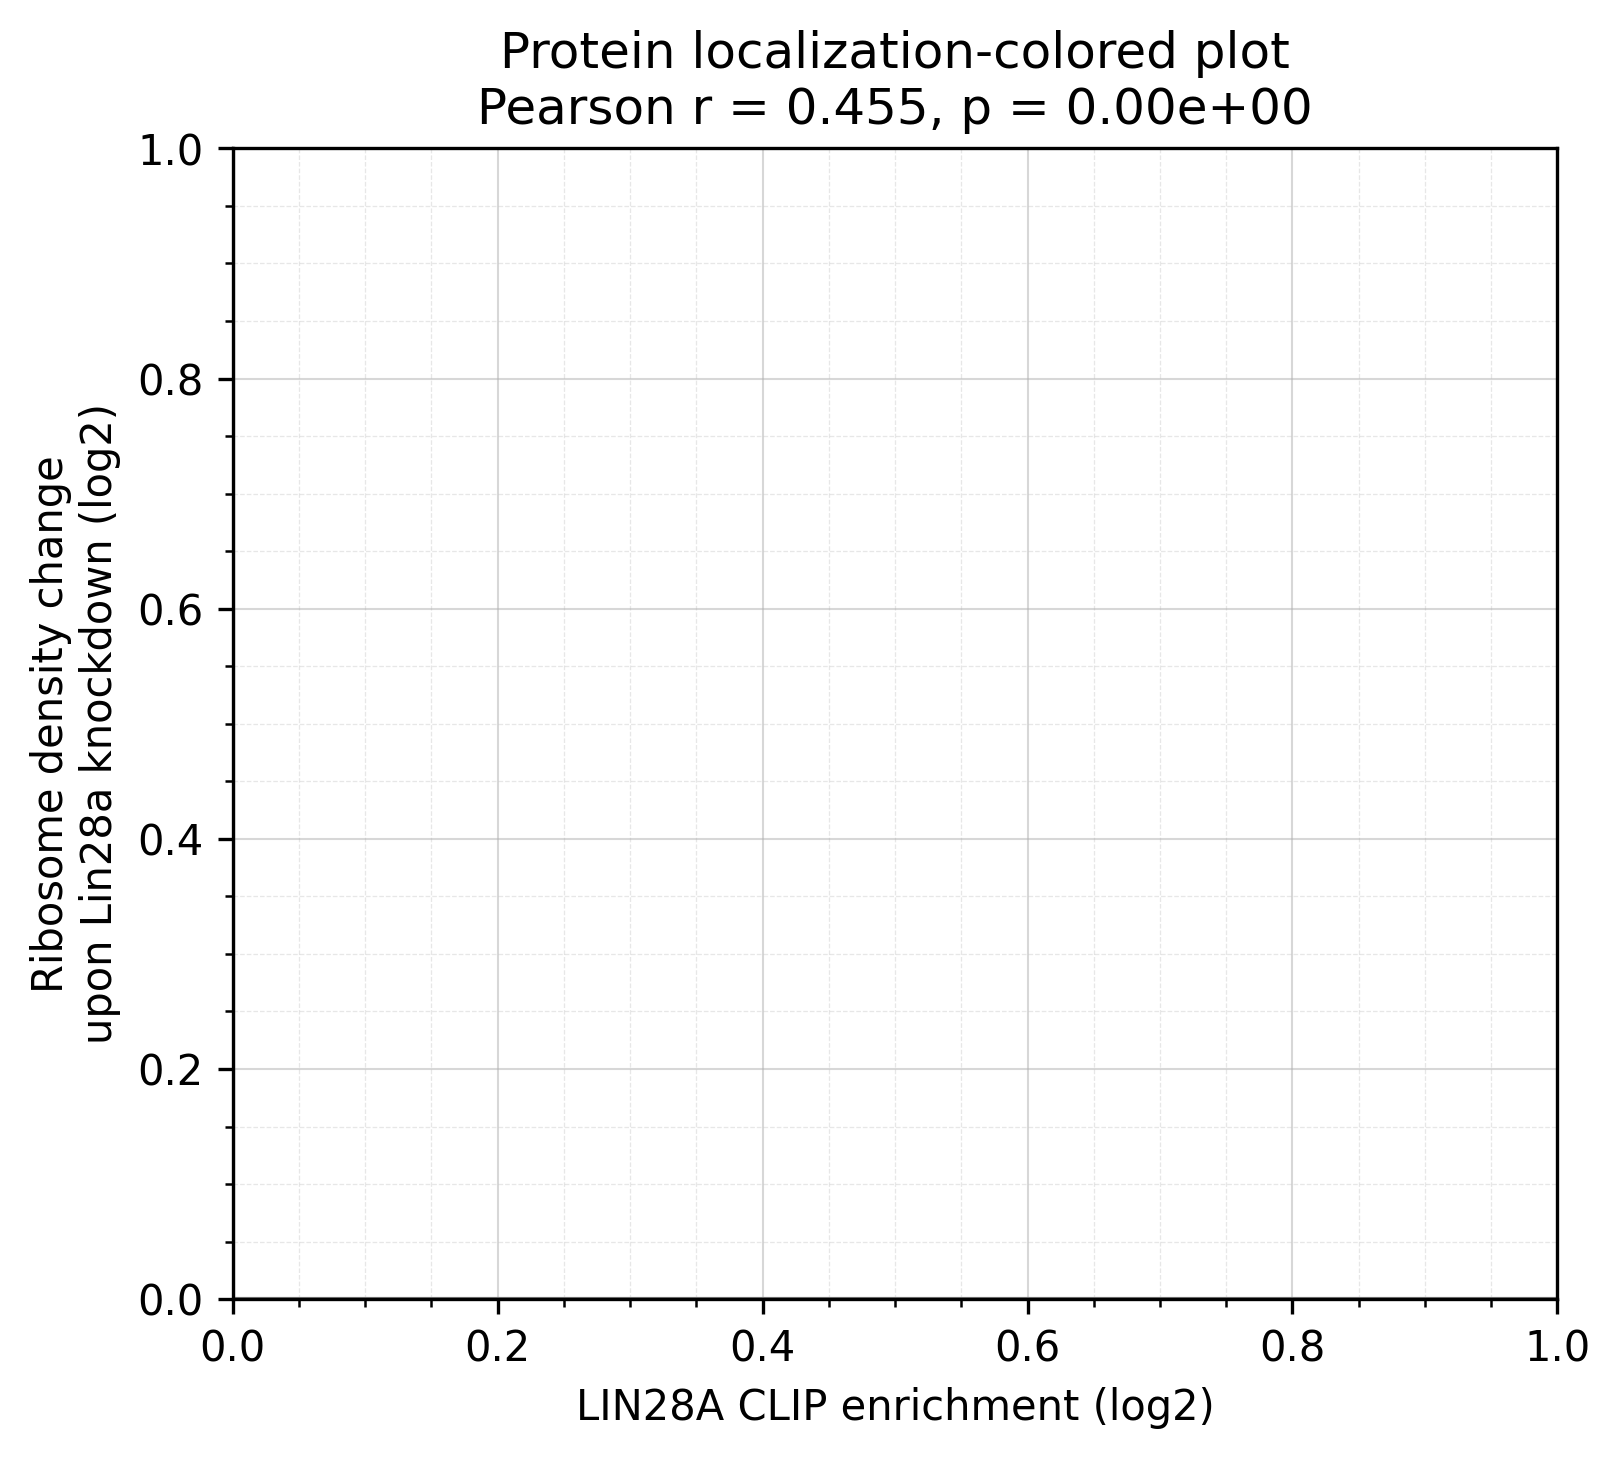
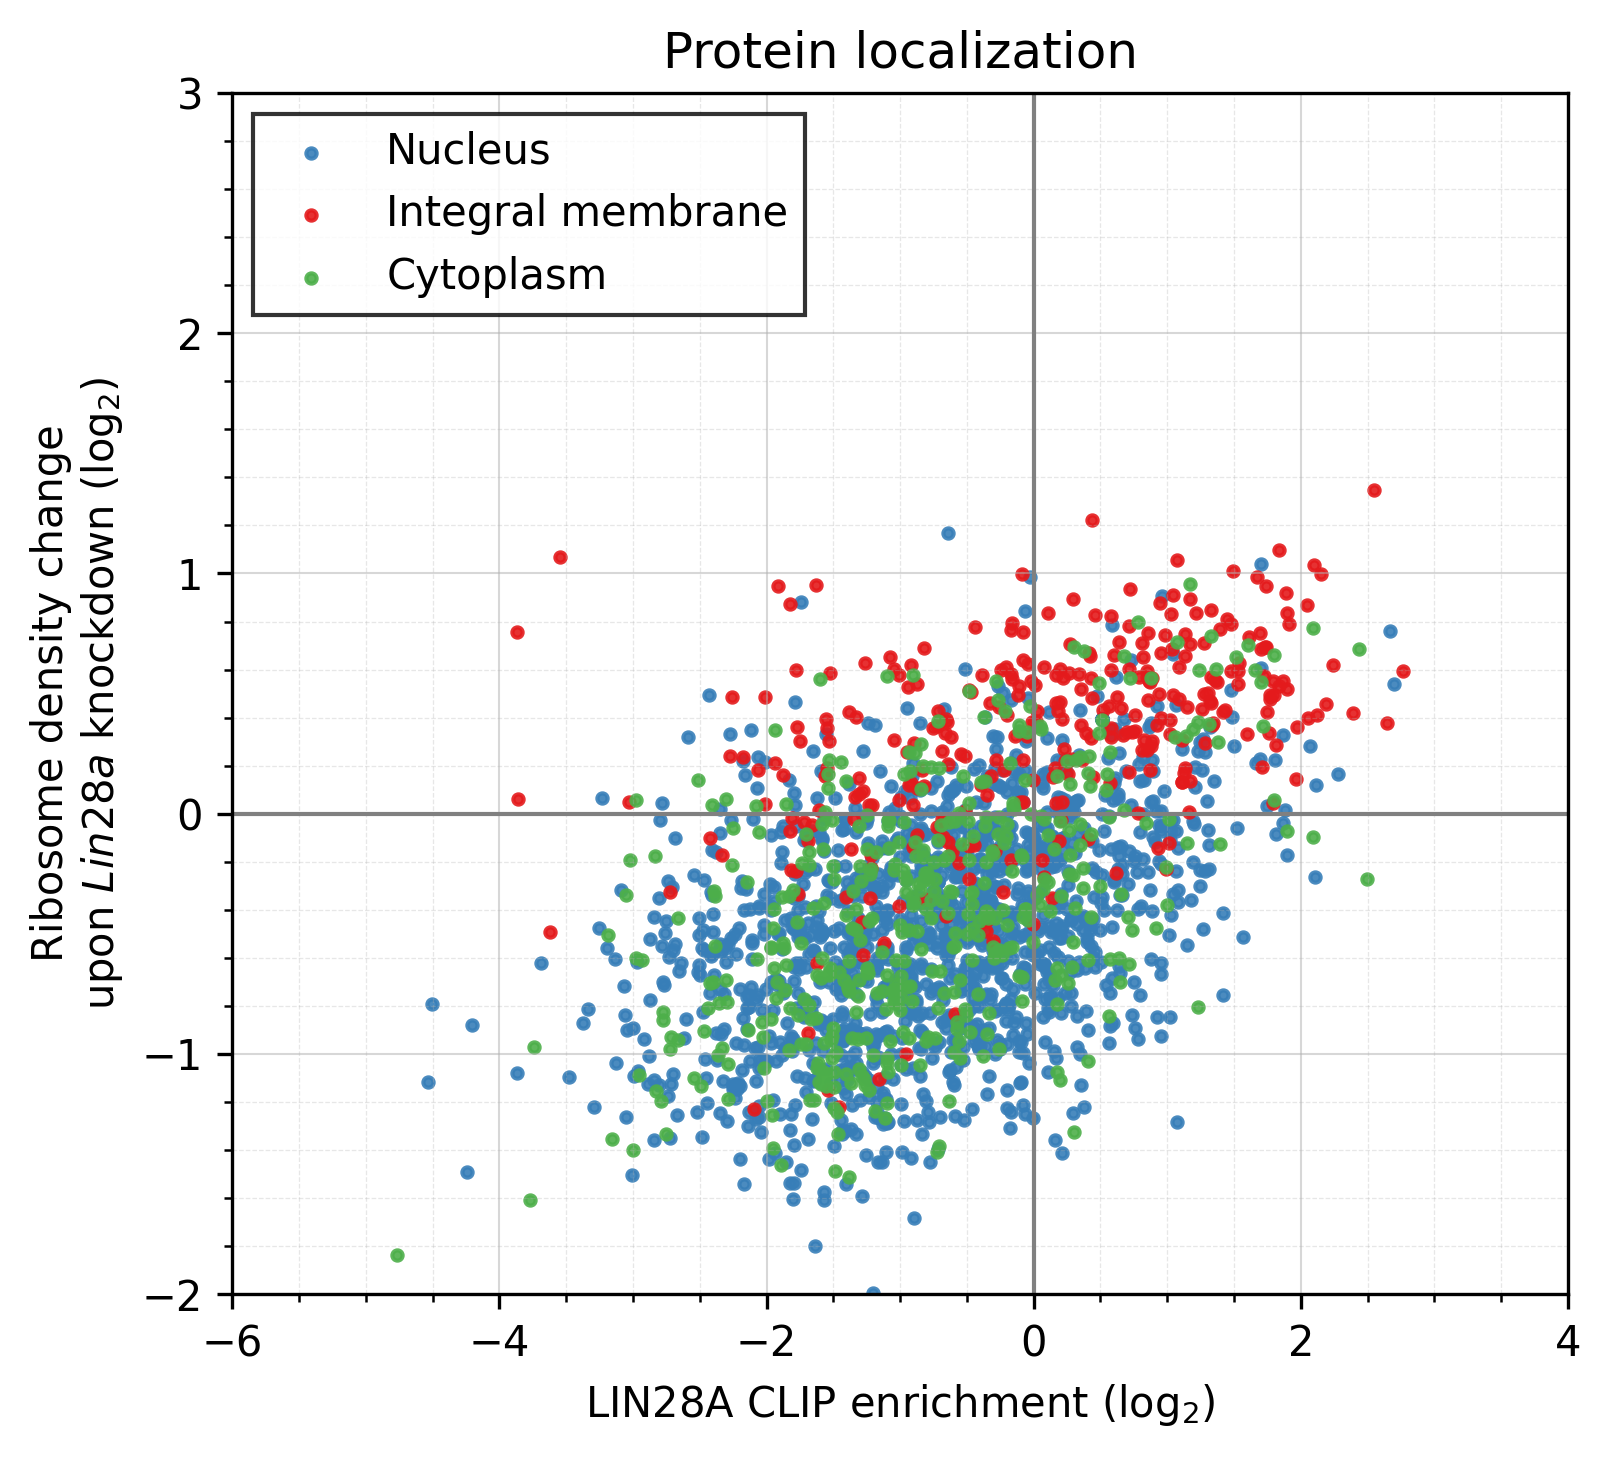
scatter plot colorized with protein localization

diff --git a/01.result/scatter_plot_revised.py b/01.result/scatter_plot_revised.py
@@ -1,0 +1,224 @@
+# cd /home/sehwahong/GuidedMission/01.result
+# conda activate lab
+# python scatter_plot_revised.py
+
+#pip install scipy
+import pandas as pd
+import numpy as np
+from matplotlib import pyplot as plt
+from scipy.stats import pearsonr
+
+# read read-counts.txt
+cnts = pd.read_csv('read-counts.txt', sep='\t', comment='#', index_col=0)
+print(cnts.columns)
+
+# column 이름 정리: featureCounts가 경로를 붙였을 가능성 대비
+cnts.columns = [col.split('/')[-1] for col in cnts.columns]
+cnts.head()
+
+# count column만 선택
+count_cols = [
+    'CLIP-35L33G.bam',
+    'RNA-control.bam',
+    'RNA-siLin28a.bam',
+    'RNA-siLuc.bam',
+    'RPF-siLin28a.bam',
+    'RPF-siLuc.bam'
+]
+
+cnts[count_cols].dtypes
+
+# 숫자형으로 변환
+for c in count_cols:
+    cnts[c] = pd.to_numeric(cnts[c], errors='coerce')
+
+# library size normalization: CPM
+cpm = cnts[count_cols].div(cnts[count_cols].sum(axis=0), axis=1) * 1_000_000
+print(cpm.head())
+
+
+
+
+# pseudocount로 0 division 방지
+pc = 1
+
+plotdf = pd.DataFrame(index=cnts.index)
+plotdf['clip_enrichment_log2'] = np.log2(
+    (cpm['CLIP-35L33G.bam'] + pc) / (cpm['RNA-control.bam'] + pc)
+)
+
+plotdf['rden_change_log2'] = np.log2(
+    ((cpm['RPF-siLin28a.bam'] + pc) / (cpm['RNA-siLin28a.bam'] + pc)) /
+    ((cpm['RPF-siLuc.bam'] + pc) / (cpm['RNA-siLuc.bam'] + pc))
+)
+
+
+
+# filtering 위해 RPKM 계산
+
+# featureCounts length column 사용
+# RPKM = reads / (gene_length_kb * total_mapped_reads_million)
+rna_siluc_total_million = cnts['RNA-siLuc.bam'].sum() / 1_000_000
+gene_length_kb = cnts['Length'] / 1000
+
+cnts['RNA_siLuc_RPKM'] = cnts['RNA-siLuc.bam'] / (gene_length_kb * rna_siluc_total_million)
+
+plotdf['RNA_siLuc_RPKM'] = cnts['RNA_siLuc_RPKM']
+
+
+
+# 너무 low count인 gene 제거
+plotdf['RNA_control_raw'] = cnts['RNA-control.bam']
+plotdf['RPF_siLuc_raw'] = cnts['RPF-siLuc.bam']
+plotdf = plotdf[
+    (plotdf['RNA_control_raw'] >= 30) &
+    (plotdf['RPF_siLuc_raw'] >= 80)
+].replace([np.inf, -np.inf], np.nan).dropna()
+
+r, p = pearsonr(plotdf['clip_enrichment_log2'], plotdf['rden_change_log2'])
+
+fig, ax = plt.subplots(figsize=(5, 5))
+ax.scatter(
+    plotdf['clip_enrichment_log2'],
+    plotdf['rden_change_log2'],
+    s=3,
+    alpha=0.3,
+    color='black' 
+)
+
+# grid
+ax.axhline(0, linewidth=1, color='gray')
+ax.axvline(0, linewidth=1, color='gray')
+
+# minor ticks + grid
+ax.minorticks_on()
+ax.grid(which='major', linestyle='-', linewidth=0.5, alpha=0.5)
+ax.grid(which='minor', linestyle='--', linewidth=0.3, alpha=0.3)
+
+# 축 범위: 논문 Figure 4D 느낌
+ax.set_xlim(-6, 4)
+ax.set_ylim(-2, 2)
+
+# label
+ax.set_xlabel('LIN28A CLIP enrichment (log$_2$)')
+ax.set_ylabel('Ribosome density change\nupon $Lin28a$ knockdown (log$_2$)')
+ax.set_title(f'CLIP and ribosome footprinting upon\n$Lin28a$ knockdown')
+
+ax.text(1, -1.5, f'$r$ = {r:.3f}')
+
+plt.subplots_adjust(left=0.18)
+plt.tight_layout()
+plt.savefig('scatter_plot_revised.png', dpi=300, bbox_inches='tight')
+# plt.show()
+
+
+
+# ============================================================
+# Protein localization 정보를 이용해서 색깔 있는 plot 다시 그리기
+# Figure 5B / S6A-like plot
+# ============================================================
+
+# mouselocalization 파일 읽기
+mouselocal = pd.read_csv('/home/sehwahong/GuidedMission/00.data/mouselocalization-20210507.txt', sep='\t')
+
+print(mouselocal.head())
+print(mouselocal.columns)
+
+# plotdf는 현재 index가 Geneid인 상태이므로 column으로 꺼내기
+plotdf_local = plotdf.reset_index()
+
+# reset_index 후 첫 column 이름 확인
+print(plotdf_local.columns)
+
+plotdf_local['Geneid_clean'] = plotdf_local['Geneid'].astype(str).str.replace(r'\.\d+$', '', regex=True)
+mouselocal['gene_id_clean'] = mouselocal['gene_id'].astype(str).str.replace(r'\.\d+$', '', regex=True)
+
+# mouselocal type 확인
+print(mouselocal['type'].value_counts())
+
+# merge
+plotdf_local = plotdf_local.merge(
+    mouselocal[['gene_id_clean', 'type']],
+    left_on='Geneid_clean',
+    right_on='gene_id_clean',
+    how='left'
+)
+
+# merge 결과 확인
+print(plotdf_local['type'].value_counts(dropna=False))
+
+
+# filter out
+plotdf_local = plotdf_local[
+    (plotdf_local['RNA_siLuc_RPKM'] > 15) & 
+    (plotdf_local['type'].isin(['nucleus', 'integral membrane', 'cytoplasm']))
+].replace([np.inf, -np.inf], np.nan).dropna()
+
+print(plotdf_local['type'].value_counts())
+
+
+# 색 지정
+color_dict = {
+    'nucleus': '#377EB8',             # Set1 blue
+    'integral membrane': '#E41A1C',   # Set1 red
+    'cytoplasm': '#4DAF4A'            # Set1 green
+}
+
+label_dict = {
+    'nucleus': 'Nucleus',
+    'integral membrane': 'Integral membrane',
+    'cytoplasm': 'Cytoplasm'
+}
+
+
+# 새 figure 생성
+fig, ax = plt.subplots(figsize=(5.5, 5))
+
+# plotting
+for t in ['nucleus', 'integral membrane', 'cytoplasm']:
+    sub = plotdf_local[plotdf_local['type'] == t]
+
+    ax.scatter(
+        sub['clip_enrichment_log2'],
+        sub['rden_change_log2'],
+        s=6,
+        alpha=0.9,
+        color=color_dict[t],
+        label=f'{label_dict[t]}'
+    )
+
+# 기준선
+ax.axhline(0, linewidth=1, color='gray')
+ax.axvline(0, linewidth=1, color='gray')
+
+# grid
+ax.minorticks_on()
+ax.grid(which='major', linestyle='-', linewidth=0.5, alpha=0.5)
+ax.grid(which='minor', linestyle='--', linewidth=0.3, alpha=0.3)
+
+# 축 범위: 논문 Figure 5B 느낌
+ax.set_xlim(-6, 4)
+ax.set_ylim(-2, 3)
+
+# label
+ax.set_xlabel('LIN28A CLIP enrichment (log$_2$)')
+ax.set_ylabel('Ribosome density change\nupon $Lin28a$ knockdown (log$_2$)')
+ax.set_title('Protein localization')
+
+# legend
+ax.legend(
+    frameon=True,
+    fancybox=False,
+    edgecolor='black',
+    fontsize=10,
+    loc='upper left'
+)
+
+plt.subplots_adjust(left=0.20)
+plt.tight_layout()
+plt.savefig('scatter_plot_localization.png', dpi=300, bbox_inches='tight')
+# plt.show()
+
+
+
+
